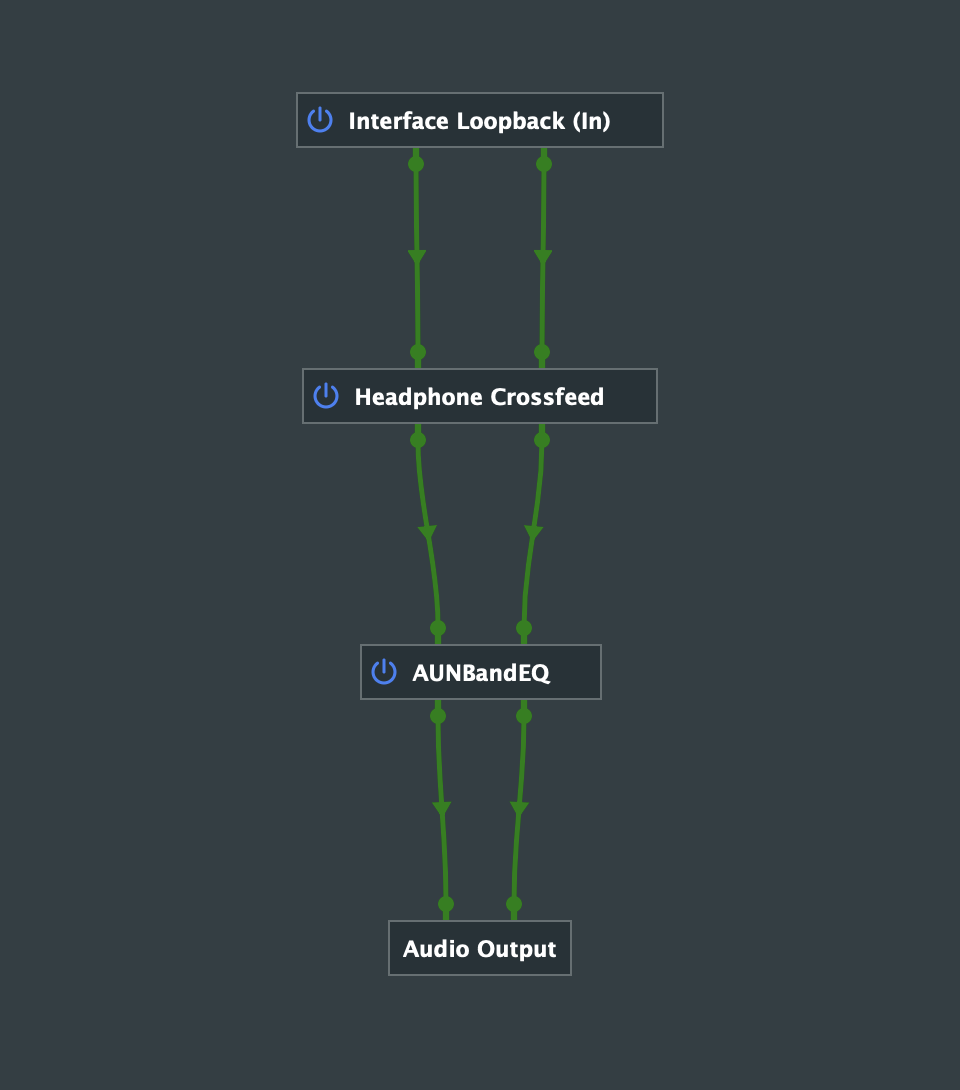
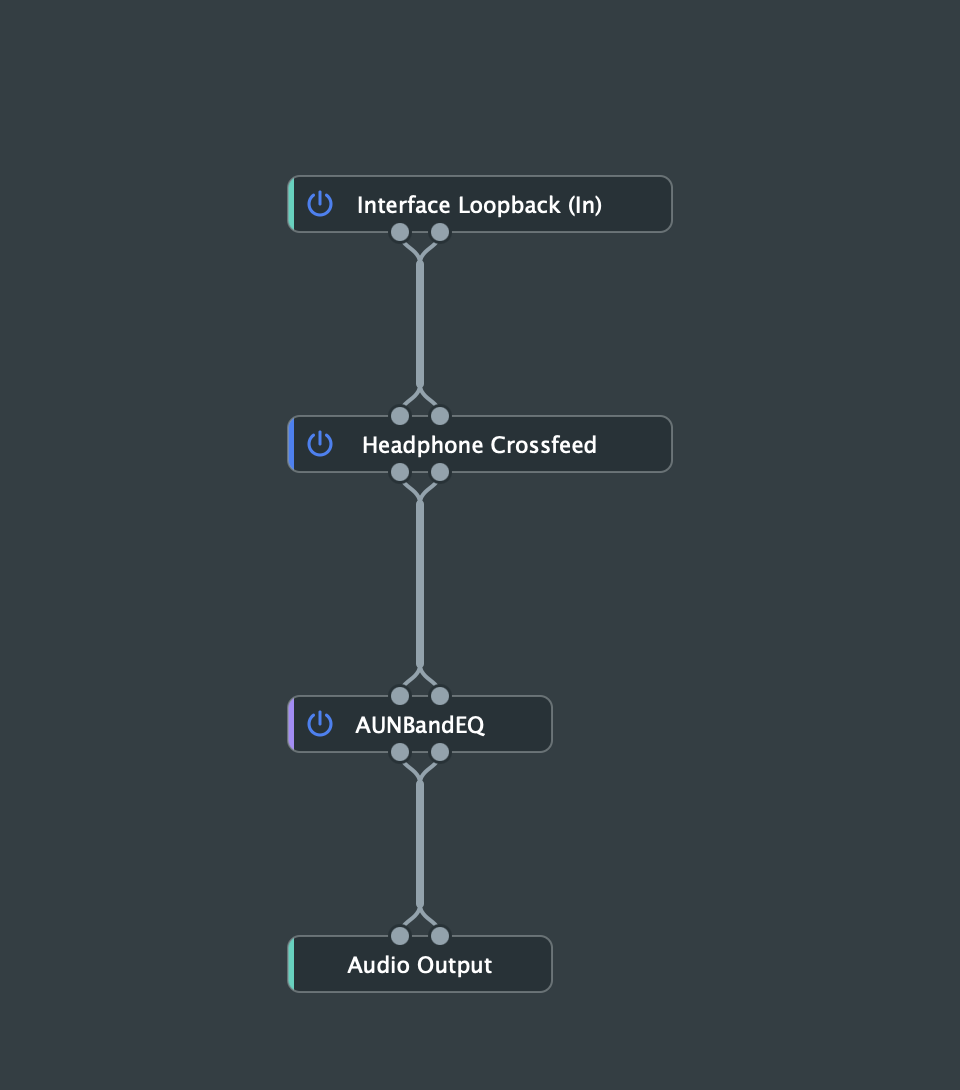
Update the README, Help and site for the new graph editor
Audio pins are now grey and MIDI pins amber, so say so throughout. Bring
the eight translated guides up to date with the new Arrange nodes section
and merged channel lines, and add the Tidy Up labels to app-terms.txt.

Replace the README's preset screenshots and the site's two editor images
with the current editor, using Apple and Curve nodes. The README's now
live in docs/images.

diff --git a/localization/hi/guide/editor.md b/localization/hi/guide/editor.md
@@ -17,7 +17,15 @@
 
 ## नोड कनेक्ट करें
 
-एक नोड के पिन से दूसरे नोड के पिन तक ड्रैग करें। ऑडियो पिन हरे और MIDI पिन लाल होते हैं। आप एक आउटपुट को कई इनपुट से कनेक्ट कर सकते हैं और अपनी पसंद की कोई भी चेन बना सकते हैं।
+एक नोड के पिन से दूसरे नोड के पिन तक ड्रैग करें। ऑडियो पिन ग्रे और MIDI पिन एम्बर होते हैं। आप एक आउटपुट को कई इनपुट से कनेक्ट कर सकते हैं और अपनी पसंद की कोई भी चेन बना सकते हैं।
+
+एक ही दो नोड के बीच जाने वाले क्रमागत चैनल, जैसे स्टीरियो जोड़ी, एक मोटी रेखा के रूप में दिखाए जाते हैं जो हर पिन की ओर बँट जाती है। चैनल अलग ही रहते हैं, कुछ भी मिक्स नहीं होता। एक बार में एक चैनल को दोबारा कनेक्ट करने के लिए रेखा को ड्रैग करें।
+
+## नोड व्यवस्थित करें
+
+किसी नोड को हटाने के लिए उसे ड्रैग करें। नोड ग्रिड पर स्नैप होते हैं, इसलिए एक सीध में रखे नोड के बीच कनेक्शन सीधे रहते हैं। किसी नोड को स्वतंत्र रूप से रखने के लिए ड्रैग करते समय Option कुंजी दबाए रखें। उसे बिना Option के फिर से ड्रैग करने पर वह ग्रिड पर लौट आता है।
+
+पूरे ग्राफ़ को सिग्नल के प्रवाह के अनुसार व्यवस्थित करने के लिए, बैकग्राउंड पर राइट-क्लिक करें और Tidy Up Layout चुनें। यदि ग्राफ़ को अधिक जगह चाहिए, तो विंडो आपकी स्क्रीन के आकार तक बड़ी हो जाती है। इसके बाद Undo Tidy Up आपका लेआउट और विंडो का आकार वापस ले आता है, जब तक कि आप कोई नोड फिर से न हटाएँ।
 
 ## नोड बायपास करें
 

diff --git a/README.md b/README.md
@@ -42,7 +42,7 @@ Curve's icon is added to the macOS menu bar as shown below. The editor window op
 
 1. If you use third-party plugins, select Settings -> 'Plug-in Manager', click Options... and scan for AU and VST3 plugins.
 2. Select Settings -> 'Audio Settings' and choose your interfaces, channels, sample rate and buffer size.
-3. In the editor, right-click the background to add plugins, then drag between the green pins to connect them.
+3. In the editor, right-click the background to add plugins, then drag between the grey pins to connect them.
 4. Select 'Save As Preset...' from Curve's menu. Your presets then appear in the menu, ready to switch between.
 
 The [Getting started](docs/guide/getting-started.md) page has the full walkthrough.
@@ -50,9 +50,9 @@ The [Getting started](docs/guide/getting-started.md) page has the full walkthrou
 <img width="282" height="338" alt="MainMenu" src="https://github.com/user-attachments/assets/899a10a6-071f-45e0-ab74-0988ea2d8695" />
 <img width="282" height="338" alt="AudioSettings" src="https://github.com/user-attachments/assets/09f7eace-a963-40a3-9709-a286135bab95" />
 <br>
-<img width="740" height="578" alt="Preset 1" src="https://github.com/user-attachments/assets/d03977ae-2191-47b3-b9ff-99206a4a813d" />
-<img width="740" height="578" alt="Preset 2" src="https://github.com/user-attachments/assets/9a57d5fe-b416-4b4e-86cd-c9f4b30a5e1b" />
-<img width="740" height="578" alt="Preset 3" src="https://github.com/user-attachments/assets/42b1d05f-b8b8-4bba-8fb2-8e07245f3725" />
+<img width="740" height="610" alt="Preset 1" src="docs/images/preset-1.png" />
+<img width="740" height="610" alt="Preset 2" src="docs/images/preset-2.png" />
+<img width="740" height="610" alt="Preset 3" src="docs/images/preset-3.png" />
 
 
 # Building from source code on macOS

diff --git a/localization/ja/guide/editor.md b/localization/ja/guide/editor.md
@@ -17,7 +17,15 @@
 
 ## ノードを接続する
 
-ノードのピンから別のノードのピンへドラッグします。オーディオピンは緑色、MIDIピンは赤色です。1つの出力を複数の入力に接続でき、自由にチェーンを組むことができます。
+ノードのピンから別のノードのピンへドラッグします。オーディオピンは灰色、MIDIピンは琥珀色です。1つの出力を複数の入力に接続でき、自由にチェーンを組むことができます。
+
+ステレオペアのように、同じ2つのノード間をつなぐ連続したチャンネルは、1本の太い線で表示され、各ピンの手前で分岐します。チャンネルは別々のままで、ミックスされることはありません。線をドラッグすると、1チャンネルずつ接続し直せます。
+
+## ノードを配置する
+
+ノードをドラッグして移動します。ノードはグリッドにスナップするため、揃えて置いたノードの間は接続がまっすぐになります。ノードを自由な位置に置くには、Optionキーを押しながらドラッグします。Optionを押さずにもう一度ドラッグすると、グリッドに戻ります。
+
+グラフ全体を信号の流れに沿って配置するには、背景を右クリックしてTidy Up Layoutを選択します。グラフにより広い領域が必要な場合は、画面のサイズを上限としてウインドウが拡大します。Undo Tidy Upを使うと、次にノードを移動するまでは、配置とウインドウサイズを元に戻せます。
 
 ## ノードをバイパスする
 

diff --git a/localization/fr/guide/editor.md b/localization/fr/guide/editor.md
@@ -17,7 +17,15 @@ Vous pouvez aussi faire glisser un fichier de plug-in, ou un [fichier d’EQ](eq
 
 ## Connecter des nœuds
 
-Faites glisser une broche d’un nœud vers une broche d’un autre nœud. Les broches audio sont vertes et les broches MIDI sont rouges. Vous pouvez connecter une sortie à plusieurs entrées et créer la chaîne de votre choix.
+Faites glisser une broche d’un nœud vers une broche d’un autre nœud. Les broches audio sont grises et les broches MIDI sont de couleur ambre. Vous pouvez connecter une sortie à plusieurs entrées et créer la chaîne de votre choix.
+
+Les canaux consécutifs reliant les deux mêmes nœuds, comme une paire stéréo, sont représentés par une seule ligne plus épaisse qui se divise vers chaque broche. Les canaux restent séparés et rien n’est mixé. Faites glisser la ligne pour reconnecter un canal à la fois.
+
+## Organiser les nœuds
+
+Faites glisser un nœud pour le déplacer. Les nœuds s’alignent sur une grille, de sorte que les nœuds alignés ont des connexions droites. Maintenez la touche Option enfoncée pendant le déplacement pour placer un nœud librement. Si vous le déplacez à nouveau sans Option, il revient sur la grille.
+
+Pour organiser tout le graphe selon le flux du signal, faites un clic droit sur l’arrière-plan et sélectionnez Tidy Up Layout. Si le graphe a besoin de plus de place, la fenêtre s’agrandit pour le contenir, jusqu’à la taille de votre écran. Undo Tidy Up restaure ensuite votre disposition et la taille de la fenêtre, jusqu’à ce que vous déplaciez de nouveau un nœud.
 
 ## Contourner un nœud
 

diff --git a/localization/fr/guide/midi-control.md b/localization/fr/guide/midi-control.md
@@ -8,11 +8,11 @@ Pour jouer d’un instrument ou envoyer du MIDI à tout autre plug-in, un nœud 
 
 1. Cliquez avec le bouton droit sur l’arrière-plan de l’éditeur et ajoutez votre plug-in d’instrument.
 2. Cliquez avec le bouton droit sur l’arrière-plan de l’éditeur et sélectionnez MIDI I/O > MIDI Input.
-3. Faites glisser la broche rouge du nœud MIDI Input vers la broche rouge en haut de l’instrument. Les broches et connexions MIDI sont rouges, et les broches et connexions audio sont vertes.
-4. Faites glisser les broches de sortie vertes de l’instrument vers le nœud Audio Output.
+3. Faites glisser la broche ambre du nœud MIDI Input vers la broche ambre en haut de l’instrument. Les broches et connexions MIDI sont de couleur ambre, et les broches et connexions audio sont grises.
+4. Faites glisser les broches de sortie grises de l’instrument vers le nœud Audio Output.
 5. Sélectionnez Save As Preset... pour conserver la configuration.
 
-Les plug-ins d’effet qui réagissent au MIDI se connectent de la même manière. Pour envoyer du MIDI d’un plug-in vers un appareil externe, activez l’appareil comme sortie MIDI dans Audio Settings, puis connectez la broche de sortie rouge du plug-in à un nœud MIDI Output.
+Les plug-ins d’effet qui réagissent au MIDI se connectent de la même manière. Pour envoyer du MIDI d’un plug-in vers un appareil externe, activez l’appareil comme sortie MIDI dans Audio Settings, puis connectez la broche de sortie ambre du plug-in à un nœud MIDI Output.
 
 ## Assigner une commande avec MIDI Learn
 

diff --git a/localization/ko/guide/editor.md b/localization/ko/guide/editor.md
@@ -17,7 +17,15 @@
 
 ## 노드 연결
 
-한 노드의 핀에서 다른 노드의 핀으로 드래그합니다. 오디오 핀은 녹색이고 MIDI 핀은 빨간색입니다. 하나의 출력을 여러 입력에 연결할 수 있으며 원하는 체인을 자유롭게 구성할 수 있습니다.
+한 노드의 핀에서 다른 노드의 핀으로 드래그합니다. 오디오 핀은 회색이고 MIDI 핀은 호박색입니다. 하나의 출력을 여러 입력에 연결할 수 있으며 원하는 체인을 자유롭게 구성할 수 있습니다.
+
+스테레오 쌍처럼 같은 두 노드 사이를 잇는 연속된 채널은 하나의 굵은 선으로 표시되며, 각 핀으로 갈라집니다. 채널은 분리된 상태로 유지되며 믹스되지 않습니다. 선을 드래그하면 한 번에 한 채널씩 다시 연결할 수 있습니다.
+
+## 노드 배치
+
+노드를 드래그하여 이동합니다. 노드는 격자에 맞춰지므로 정렬된 노드 사이의 연결은 곧게 표시됩니다. 노드를 자유롭게 배치하려면 Option 키를 누른 채 드래그합니다. Option 없이 다시 드래그하면 격자로 돌아갑니다.
+
+전체 그래프를 신호 흐름에 따라 배치하려면 배경을 오른쪽 클릭하고 Tidy Up Layout을 선택합니다. 그래프에 더 많은 공간이 필요하면 창이 화면 크기까지 커집니다. 이후 노드를 다시 이동하기 전까지 Undo Tidy Up으로 레이아웃과 창 크기를 복원할 수 있습니다.
 
 ## 노드 바이패스
 

diff --git a/localization/ko/guide/midi-control.md b/localization/ko/guide/midi-control.md
@@ -8,11 +8,11 @@ MIDI 컨트롤러나 키보드로 악기 플러그인을 연주하고, 플러그
 
 1. 편집기 배경을 오른쪽 클릭하고 악기 플러그인을 추가합니다.
 2. 편집기 배경을 오른쪽 클릭하고 MIDI I/O > MIDI Input을 선택합니다.
-3. MIDI Input 노드의 빨간색 핀에서 악기 상단의 빨간색 핀으로 드래그합니다. MIDI 핀과 연결은 빨간색이고, 오디오 핀과 연결은 녹색입니다.
-4. 악기의 녹색 출력 핀에서 Audio Output 노드로 드래그합니다.
+3. MIDI Input 노드의 호박색 핀에서 악기 상단의 호박색 핀으로 드래그합니다. MIDI 핀과 연결은 호박색이고, 오디오 핀과 연결은 회색입니다.
+4. 악기의 회색 출력 핀에서 Audio Output 노드로 드래그합니다.
 5. 설정을 유지하려면 Save As Preset...를 선택합니다.
 
-MIDI에 반응하는 이펙트 플러그인도 같은 방식으로 연결합니다. 플러그인에서 외부 기기로 MIDI를 보내려면 Audio Settings에서 해당 기기를 MIDI 출력으로 활성화한 다음, 플러그인의 빨간색 출력 핀을 MIDI Output 노드에 연결합니다.
+MIDI에 반응하는 이펙트 플러그인도 같은 방식으로 연결합니다. 플러그인에서 외부 기기로 MIDI를 보내려면 Audio Settings에서 해당 기기를 MIDI 출력으로 활성화한 다음, 플러그인의 호박색 출력 핀을 MIDI Output 노드에 연결합니다.
 
 ## MIDI Learn으로 컨트롤 매핑
 

diff --git a/localization/de/guide/editor.md b/localization/de/guide/editor.md
@@ -17,7 +17,15 @@ Du kannst auch eine Plug-in-Datei oder eine [EQ-Datei](eq-and-autoeq.md) auf das
 
 ## Nodes verbinden
 
-Ziehe von einem Pin eines Nodes zu einem Pin eines anderen. Audio-Pins sind grün, MIDI-Pins rot. Du kannst einen Ausgang mit mehreren Eingängen verbinden und beliebige Ketten aufbauen.
+Ziehe von einem Pin eines Nodes zu einem Pin eines anderen. Audio-Pins sind grau, MIDI-Pins bernsteinfarben. Du kannst einen Ausgang mit mehreren Eingängen verbinden und beliebige Ketten aufbauen.
+
+Aufeinanderfolgende Kanäle zwischen denselben zwei Nodes, etwa ein Stereopaar, werden als eine dickere Linie dargestellt, die sich zu jedem Pin hin verzweigt. Die Kanäle bleiben getrennt, es wird nichts heruntergemischt. Ziehe die Linie, um jeweils einen Kanal neu zu verbinden.
+
+## Nodes anordnen
+
+Ziehe einen Node, um ihn zu verschieben. Nodes rasten in einem Raster ein, sodass ausgerichtete Nodes gerade Verbindungen erhalten. Halte beim Ziehen die Option-Taste gedrückt, um einen Node frei zu platzieren. Ziehst du ihn danach ohne Option erneut, rastet er wieder im Raster ein.
+
+Um den gesamten Graphen nach Signalfluss anzuordnen, klicke mit der rechten Maustaste auf den Hintergrund und wähle Tidy Up Layout. Braucht der Graph mehr Platz, wird das Fenster passend vergrößert, bis zur Größe deines Bildschirms. Undo Tidy Up stellt dann dein Layout und die Fenstergröße wieder her, bis du das nächste Mal einen Node verschiebst.
 
 ## Einen Node umgehen
 

diff --git a/localization/es/guide/midi-control.md b/localization/es/guide/midi-control.md
@@ -8,11 +8,11 @@ Para tocar un instrumento, o enviar MIDI a cualquier otro plug-in, se necesita u
 
 1. Haz clic con el botón derecho en el fondo del editor y añade tu plug-in de instrumento.
 2. Haz clic con el botón derecho en el fondo del editor y selecciona MIDI I/O > MIDI Input.
-3. Arrastra desde el pin rojo del nodo MIDI Input hasta el pin rojo de la parte superior del instrumento. Los pines y las conexiones MIDI son rojos, y los de audio son verdes.
-4. Arrastra desde los pines de salida verdes del instrumento hasta el nodo Audio Output.
+3. Arrastra desde el pin ámbar del nodo MIDI Input hasta el pin ámbar de la parte superior del instrumento. Los pines y las conexiones MIDI son de color ámbar, y los de audio son grises.
+4. Arrastra desde los pines de salida grises del instrumento hasta el nodo Audio Output.
 5. Selecciona Save As Preset... para conservar la configuración.
 
-Los plug-ins de efecto que responden a MIDI se conectan de la misma forma. Para enviar MIDI desde un plug-in a un dispositivo externo, activa el dispositivo como salida MIDI en Audio Settings y conecta el pin de salida rojo del plug-in a un nodo MIDI Output.
+Los plug-ins de efecto que responden a MIDI se conectan de la misma forma. Para enviar MIDI desde un plug-in a un dispositivo externo, activa el dispositivo como salida MIDI en Audio Settings y conecta el pin de salida ámbar del plug-in a un nodo MIDI Output.
 
 ## Asignar un control con MIDI Learn
 
